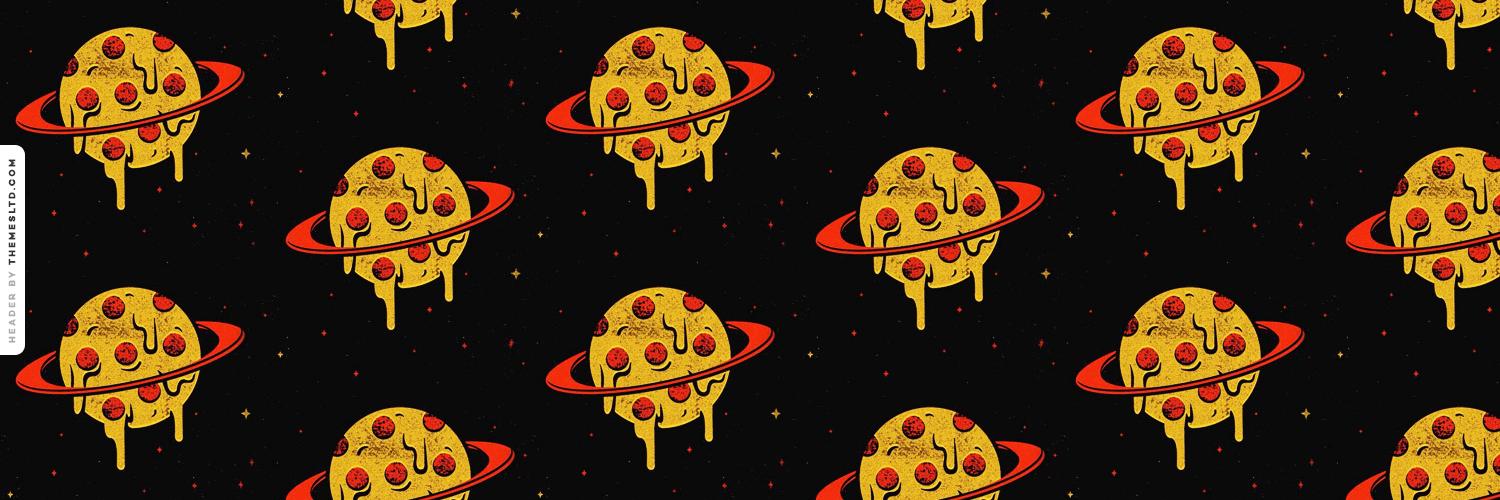
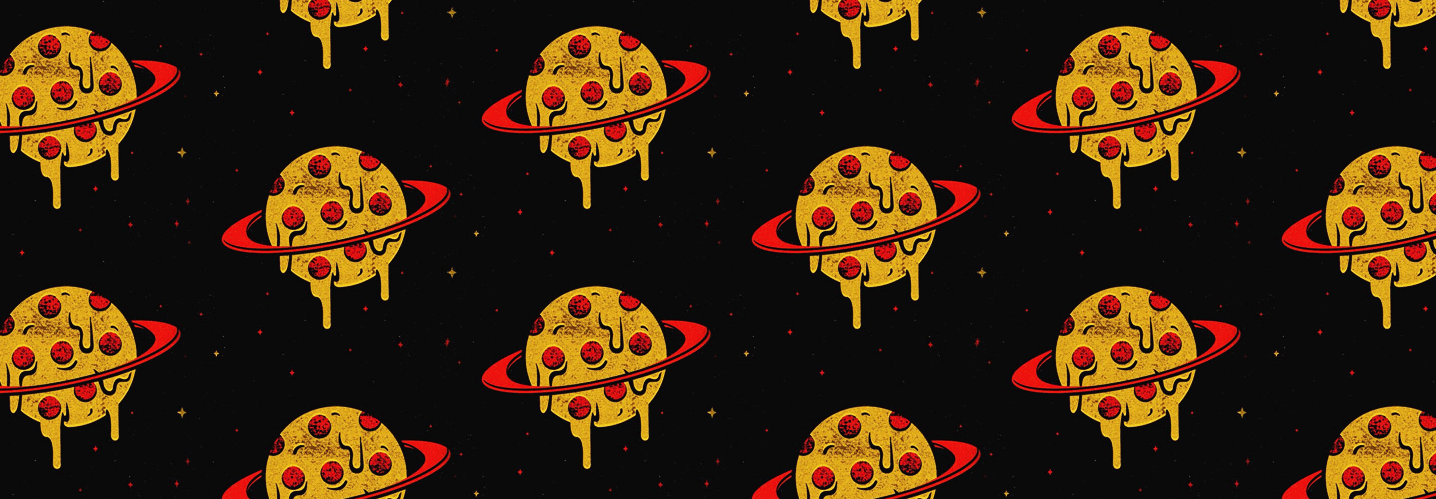
added history page. Edited navbar. Edited index.html. cropped background image

diff --git a/history.html b/history.html
@@ -1,0 +1,96 @@
+<!DOCTYPE HTML>
+<head>
+  <meta charset="utf-8">
+  <title>Chicago Pizza Lore</title>
+  <!-- The viewport tag for mobile devices -->
+  <meta name="viewport" content="width=device-width, initial-scale=1">
+
+  <!-- Bootstrap 4.1.3 -->
+  <link rel="stylesheet" href="https://stackpath.bootstrapcdn.com/bootstrap/4.1.3/css/bootstrap.min.css"
+    integrity="sha384-MCw98/SFnGE8fJT3GXwEOngsV7Zt27NXFoaoApmYm81iuXoPkFOJwJ8ERdknLPMO" crossorigin="anonymous">
+  <!-- Custom CSS Document -->
+  <link rel="stylesheet" type="text/css" href="assets/css/style.css">
+</head>
+
+
+<body>
+  <div id="header"></div>
+
+  <!-- History of Pizza -->
+  <section class="pizza-content pad">
+    <div class="container text-center">
+      <h1>A little history of pizza...</h1>
+      <h3>Once Upon an Oven...</h3>
+
+      <div class="history">
+        <p class="nontransparent">
+          Foods similar to pizza have been made since the neolithic age. Records of people adding other ingredients to bread to
+          make it more flavorful can be found throughout ancient history. In the 6th century BC, the Persian soldiers of
+          Achaemenid Empire during the rule King Darius I baked flatbreads with cheese and dates on top of their battle shields
+          and the ancient Greeks supplemented their bread with oils, herbs, and cheese. An early reference to a pizza-like food
+          occurs in the Aeneid, when Celaeno, queen of the Harpies, foretells that the Trojans would not find peace until they
+          are forced by hunger to eat their tables (Book III). In Book VII, Aeneas and his men are served a meal that includes
+          round cakes (like pita bread) topped with cooked vegetables. When they eat the bread, they realize that these are the
+          "tables" prophesied by Celaeno.
+        </p>
+        <p class="history">
+          Modern pizza evolved from similar flatbread dishes in Naples in the 18th or early 19th century. Prior to that time,
+          flatbread was often topped with ingredients such as garlic, salt, lard, cheese, and basil. It is uncertain when
+          tomatoes were first added and there are many conflicting claims. Until about 1830, pizza was sold from open-air stands
+          and out of pizza bakeries, and pizzerias keep this old tradition alive today.
+
+        </p>
+        <p>
+          A popular contemporary legend holds that the archetypal pizza, pizza Margherita, was invented in 1889, when the Royal
+          Palace of Capodimonte commissioned the Neapolitan pizzaiolo (pizza maker) Raffaele Esposito to create a pizza in honor
+          of the visiting Queen Margherita. Of the three different pizzas he created, the Queen strongly preferred a pizza
+          swathed in the colors of the Italian flag: red (tomato), green (basil), and white (mozzarella). Supposedly, this kind
+          of pizza was then named after the Queen, although recent research casts doubt on this legend. An official letter of
+          recognition from the Queen's "head of service" remains on display in Esposito's shop, now called the Pizzeria Brandi.
+        </p>
+        <p>
+          Pizza was brought to the United States with Italian immigrants in the late nineteenth century and first appeared in
+          areas where Italian immigrants concentrated. The country's first pizzeria, Lombardi's, opened in 1905. Following World
+          War II, veterans returning from the Italian Campaign after being introduced to Italy's native cuisine proved a ready
+          market for pizza in particular. Since then pizza consumption has exploded in the U.S. Pizza chains such as Domino's,
+          Pizza Hut, and Papa John's, pizzas from take and bake pizzerias, and chilled or frozen pizzas from supermarkets make
+          pizza readily available nationwide. 13% of the US population consumes pizza on any given day.
+        </p>
+
+        <p>Learn More About Pizza Here:</p>
+        <a href="https://en.wikipedia.org/wiki/History_of_pizza" target="_blank" class="m-3" style="color:whitesmoke">Pizza History</a>
+        <br>
+        <a href="https://www.tripsavvy.com/history-of-pizza-1329091" target="_blank" class="m-3" style="color:whitesmoke">10 Facts About Pizza</a>
+
+      </div>
+
+    </div>
+  </section>
+
+
+
+
+
+
+
+
+
+
+  <div id="footer"></div>
+
+
+
+  <!-- JavaScripts and jQuery -->
+  <!-- jQuery 3.3.1 -->
+  <script src="https://ajax.googleapis.com/ajax/libs/jquery/3.3.1/jquery.min.js"></script>
+  <!-- Ajax 1.14.3 -->
+  <script src="https://cdnjs.cloudflare.com/ajax/libs/popper.js/1.14.3/umd/popper.min.js"
+    integrity="sha384-ZMP7rVo3mIykV+2+9J3UJ46jBk0WLaUAdn689aCwoqbBJiSnjAK/l8WvCWPIPm49" crossorigin="anonymous"></script>
+  <script src="https://stackpath.bootstrapcdn.com/bootstrap/4.1.3/js/bootstrap.min.js"
+    integrity="sha384-ChfqqxuZUCnJSK3+MXmPNIyE6ZbWh2IMqE241rYiqJxyMiZ6OW/JmZQ5stwEULTy" crossorigin="anonymous"></script>
+
+  <!-- Custom Javascript Document -->
+  <script src="assets/javascript/app.js"></script>
+
+</body>
+</html>

diff --git a/index.html b/index.html
@@ -23,65 +23,6 @@
       <h3>Let's explore some awesome Pizza in Chicago</h3>
   </section>
 
-  <!-- History of Pizza -->
-  <section class="pizza-content">
-    <div class="container text-center">
-      <h1>A little history of pizza...</h1>
-      <h3>Once Upon an Oven...</h3>
-
-      <div class="history">
-        <p class="nontransparent">
-          Foods similar to pizza have been made since the neolithic age. Records of people adding other ingredients to bread to
-          make it more flavorful can be found throughout ancient history. In the 6th century BC, the Persian soldiers of
-          Achaemenid Empire during the rule King Darius I baked flatbreads with cheese and dates on top of their battle shields
-          and the ancient Greeks supplemented their bread with oils, herbs, and cheese. An early reference to a pizza-like food
-          occurs in the Aeneid, when Celaeno, queen of the Harpies, foretells that the Trojans would not find peace until they
-          are forced by hunger to eat their tables (Book III). In Book VII, Aeneas and his men are served a meal that includes
-          round cakes (like pita bread) topped with cooked vegetables. When they eat the bread, they realize that these are the
-          "tables" prophesied by Celaeno.
-        </p>
-        <p class="history">
-          Modern pizza evolved from similar flatbread dishes in Naples in the 18th or early 19th century. Prior to that time,
-          flatbread was often topped with ingredients such as garlic, salt, lard, cheese, and basil. It is uncertain when
-          tomatoes were first added and there are many conflicting claims. Until about 1830, pizza was sold from open-air stands
-          and out of pizza bakeries, and pizzerias keep this old tradition alive today.
-
-        </p>
-        <p>
-          A popular contemporary legend holds that the archetypal pizza, pizza Margherita, was invented in 1889, when the Royal
-          Palace of Capodimonte commissioned the Neapolitan pizzaiolo (pizza maker) Raffaele Esposito to create a pizza in honor
-          of the visiting Queen Margherita. Of the three different pizzas he created, the Queen strongly preferred a pizza
-          swathed in the colors of the Italian flag: red (tomato), green (basil), and white (mozzarella). Supposedly, this kind
-          of pizza was then named after the Queen, although recent research casts doubt on this legend. An official letter of
-          recognition from the Queen's "head of service" remains on display in Esposito's shop, now called the Pizzeria Brandi.
-        </p>
-        <p>
-          Pizza was brought to the United States with Italian immigrants in the late nineteenth century and first appeared in
-          areas where Italian immigrants concentrated. The country's first pizzeria, Lombardi's, opened in 1905. Following World
-          War II, veterans returning from the Italian Campaign after being introduced to Italy's native cuisine proved a ready
-          market for pizza in particular. Since then pizza consumption has exploded in the U.S. Pizza chains such as Domino's,
-          Pizza Hut, and Papa John's, pizzas from take and bake pizzerias, and chilled or frozen pizzas from supermarkets make
-          pizza readily available nationwide. 13% of the US population consumes pizza on any given day.
-        </p>
-
-        <p>Learn More About Pizza Here:</p>
-        <a href="https://en.wikipedia.org/wiki/History_of_pizza" target="_blank" class="m-3" style="color:whitesmoke">Pizza History</a>
-        <br>
-        <a href="https://www.tripsavvy.com/history-of-pizza-1329091" target="_blank" class="m-3" style="color:whitesmoke">10 Facts About Pizza</a>
-
-      </div>
-
-    </div>
-  </section>
-
-
-
-
-
-
-
-
-
 
   <div id="footer"></div>
 

diff --git a/header.html b/header.html
@@ -4,6 +4,9 @@
     <button class="navbar-toggler" type="button" data-toggle="collapse" data-target="#navbarNavDropdown" aria-controls="navbarNavDropdown" aria-expanded="false" aria-label="Toggle navigation"></button>
     <div class="collapse navbar-collapse" id="navbarNavDropdown">
       <ul class="navbar-nav">
+        <li class="nav-item active" class="btn-group btn-group-justified">
+          <a class="nav-link" href="history.html"><button class="btn btn-outline-dark navbar-btn">Pizza History<span class="sr-only">(current)</span></button></a>
+        </li>
       <li class="nav-item active" class="btn-group btn-group-justified">
         <a class="nav-link" href="stylesofpizza.html"><button class="btn btn-outline-dark navbar-btn">Styles of Pizza<span class="sr-only">(current)</span></button></a>
       </li>
